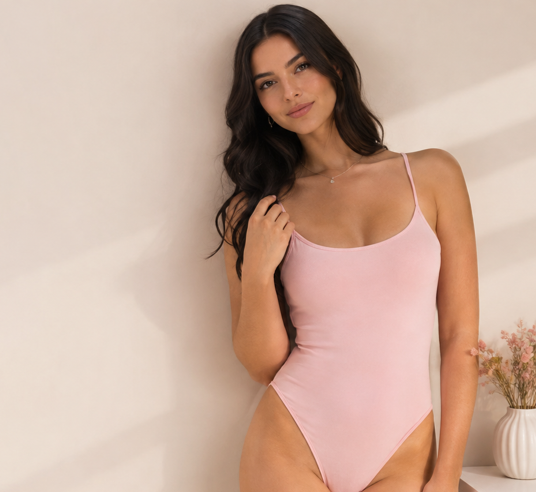
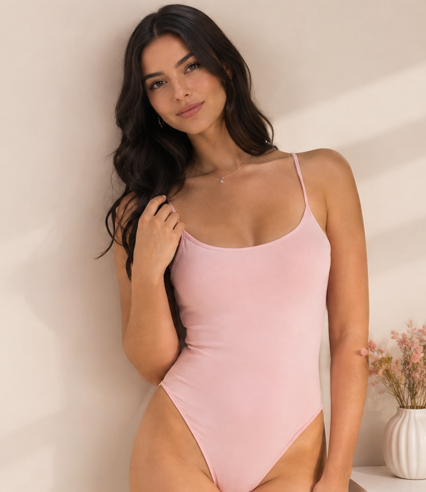
Actualizacion de la pagina web

diff --git a/css/styles.css b/css/styles.css
@@ -1382,7 +1382,7 @@ text-align: center;
 .inicio-div-3 {
   justify-content: center;
   align-items: flex-start;
-  padding: 23rem 0 0 0.25rem;   /* 4px del borde */
+  padding: 22rem 0 0 0.25rem;   /* 4px del borde */
   text-align: left;
 }
 .inicio-subtitulo {
